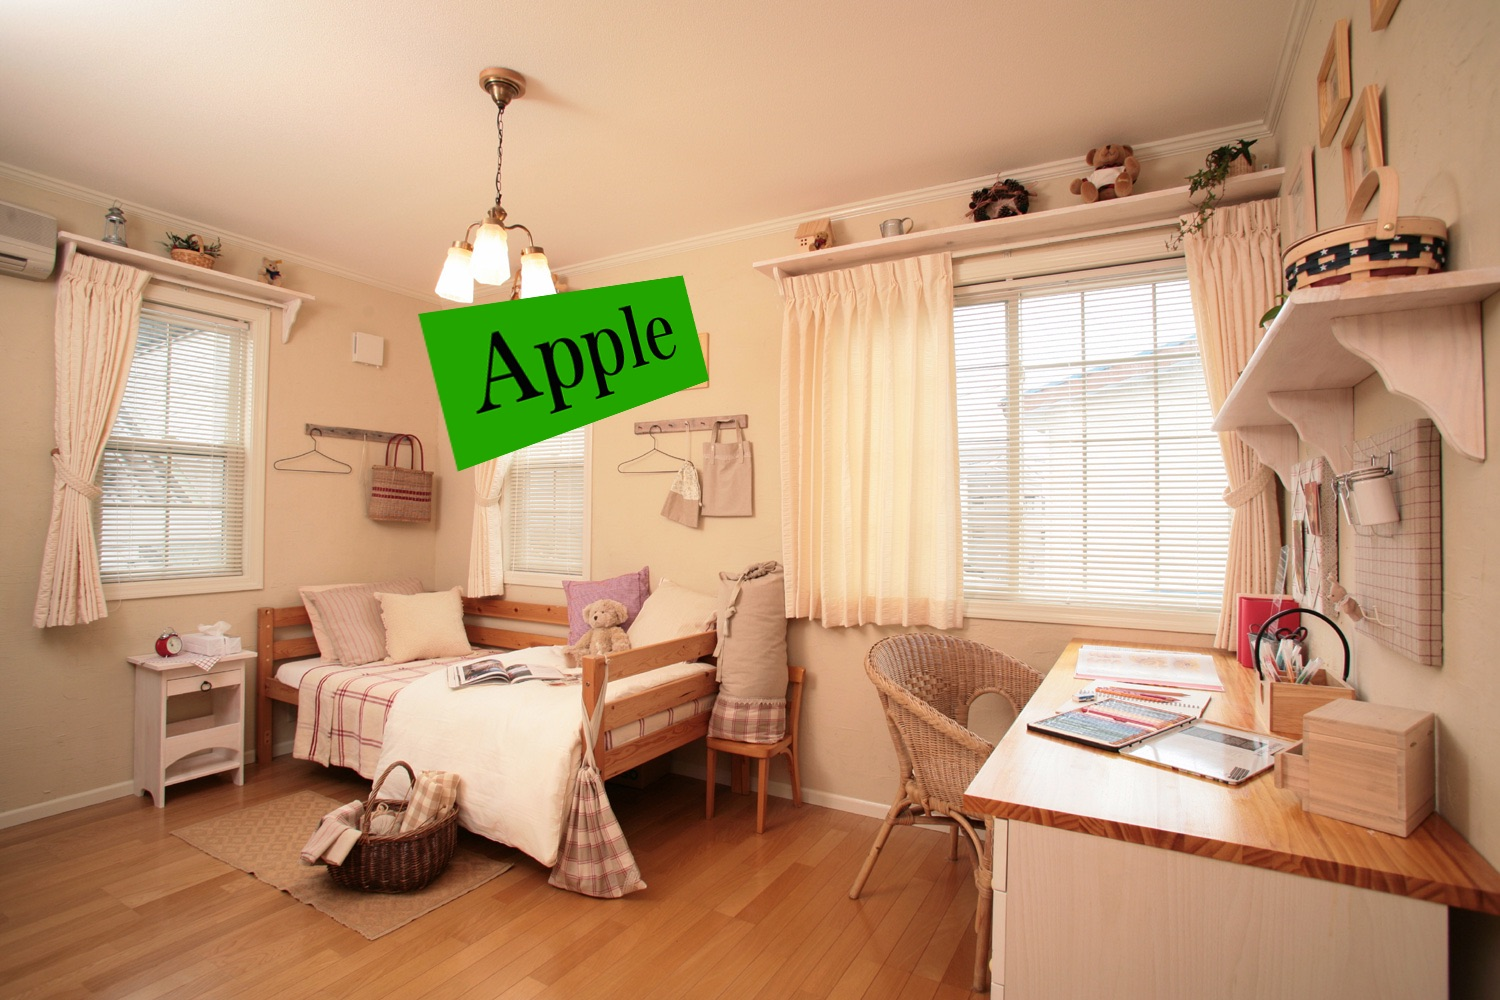
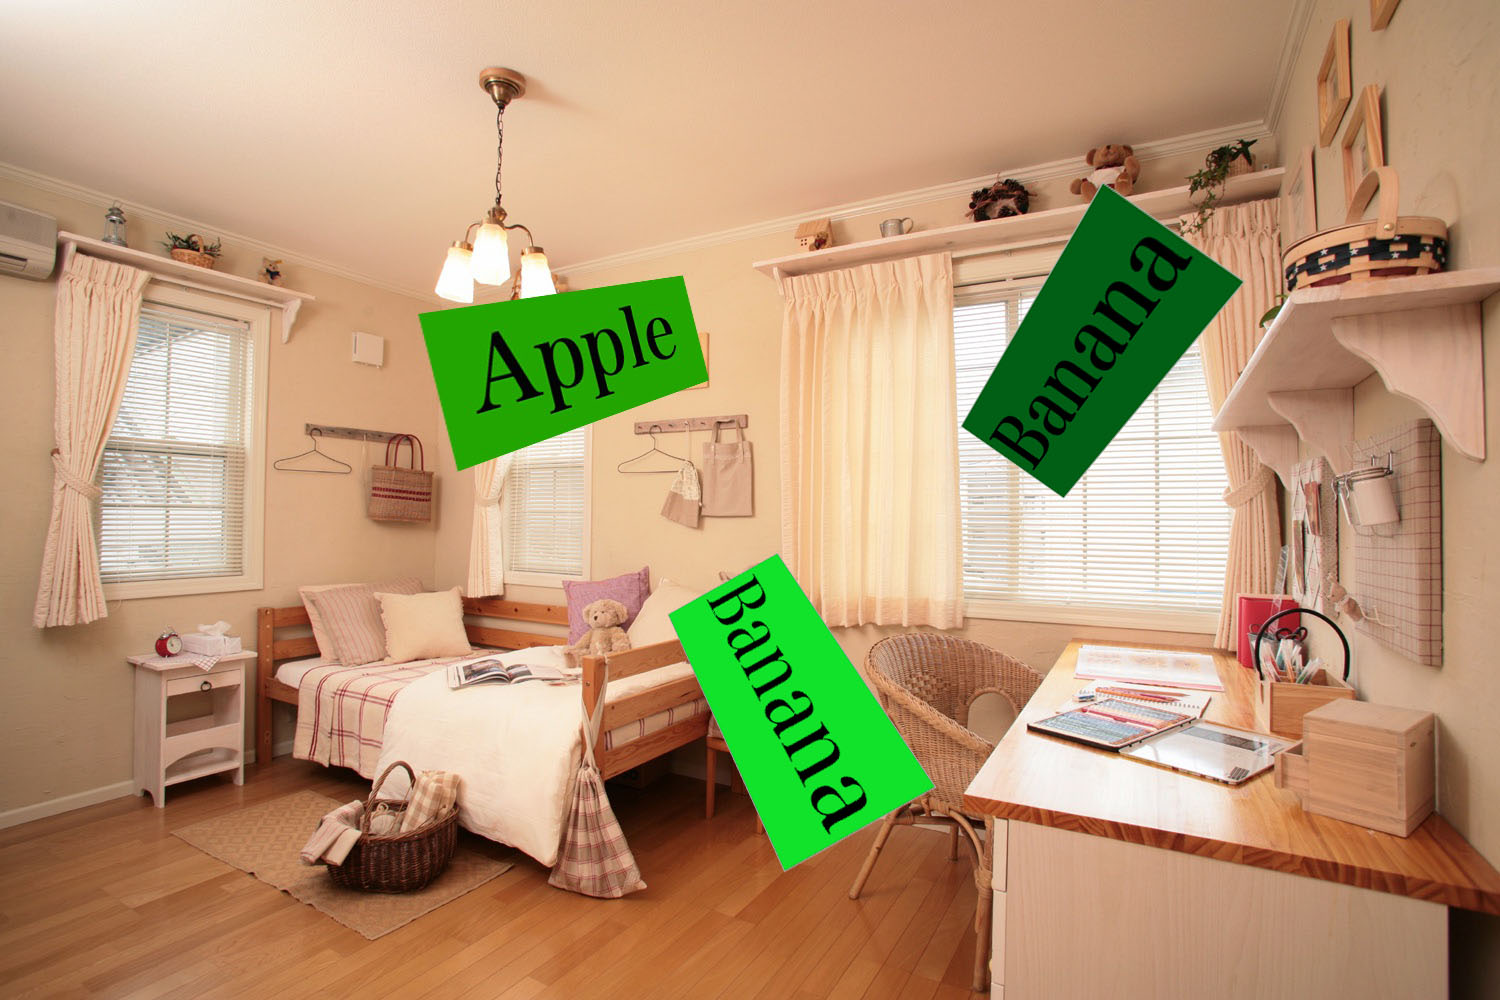
様々な回転に対してロバストにする

Changed region(s): [[0.4293, 0.558, 0.644, 0.868], [0.644, 0.186, 0.828, 0.496]]

diff --git a/src/frame_parse.py b/src/frame_parse.py
@@ -3,6 +3,9 @@ from os import path as op
 import numpy as np
 from libs.CharacterArea import CharacterArea
 
+def distance(p1, p2):
+    return np.abs(np.subtract(p1, p2)).sum()
+
 if __name__ == '__main__':
     # 定義
     IMAGE_DIR = op.normpath(
@@ -12,8 +15,11 @@ if __name__ == '__main__':
     # chimpanzee = cv2.imread(IMAGE_DIR + '/chimpanzee.png', cv2.IMREAD_ANYCOLOR)
     LOWER_GREEN = np.array([30, 30, 30])
     UPPER_GREEN = np.array([90, 255, 255])
-    CARD_SIZE = [480, 360]
-    PTS_DST = np.array([[[CARD_SIZE[0], 0]], [[0, 0]], [[0, CARD_SIZE[1]]], [[CARD_SIZE[0], CARD_SIZE[1]]]])
+    CARD_WIDTH = 480
+    CARD_HEIGHT = 360
+    PTS_DST_LITTLE = np.array([[0, 0], [CARD_WIDTH, 0], [0, CARD_HEIGHT], [CARD_WIDTH, CARD_HEIGHT]])
+    PTS_DST_LEFT = np.array([[0, CARD_HEIGHT], [0, 0],  [CARD_WIDTH, CARD_HEIGHT], [CARD_WIDTH, 0]])
+    PTS_DST_RIGHT = np.array([[CARD_WIDTH, 0], [CARD_WIDTH, CARD_HEIGHT], [0, 0], [0, CARD_HEIGHT] ])
 
     hash_list = np.array([])
     prev_answers = []
@@ -42,8 +48,16 @@ if __name__ == '__main__':
             if answer:
                 answers.append(answer)
             else:
-                h, _ = cv2.findHomography(area, PTS_DST)
-                warped_character_area = cv2.warpPerspective(frame, h, (CARD_SIZE[0], CARD_SIZE[1]))
+                # sortする必要ないかも？
+                area = ca.sort_area(area)
+                if distance(area[0], area[1]) > distance(area[0], area[2]):
+                    pts_dts = PTS_DST_LITTLE
+                elif area[0][1] < area[1][1]:
+                    pts_dts = PTS_DST_RIGHT
+                else:
+                    pts_dts = PTS_DST_LEFT
+                h, _ = cv2.findHomography(area, pts_dts)
+                warped_character_area = cv2.warpPerspective(frame, h, (CARD_WIDTH, CARD_HEIGHT))
                 # TODO OCRで答えを得る．もし有効な答えを得られなければanswersにはFalseを代入する
                 answers.append('apple')
         # この時点で全てのareaについてanswersに文字かFalseが代入されているので描画すればよい

diff --git a/src/libs/CharacterArea.py b/src/libs/CharacterArea.py
@@ -26,13 +26,15 @@ class CharacterArea:
             approxes.append(approx)
         return np.array(approxes, np.int32)
 
-    def getBoundingBoxByPoints(self, contour):
-        points = list(map(lambda x: x[0], contour))
+    def sort_area(self, area):
+        points = np.reshape(area, (-1, 2))
         points = sorted(points, key=lambda x: x[1])
         top_points = sorted(points[:2], key=lambda x: x[0])
         bottom_points = sorted(points[2:4], key=lambda x: x[0])
-        points = top_points + bottom_points
+        return np.array(top_points + bottom_points)
 
+    def getBoundingBoxByPoints(self, sort_area):
+        points = sort_area.reshape((-1, 2))
         left = min(points[0][0], points[2][0])
         right = max(points[1][0], points[3][0])
         top = min(points[0][1], points[1][1])
